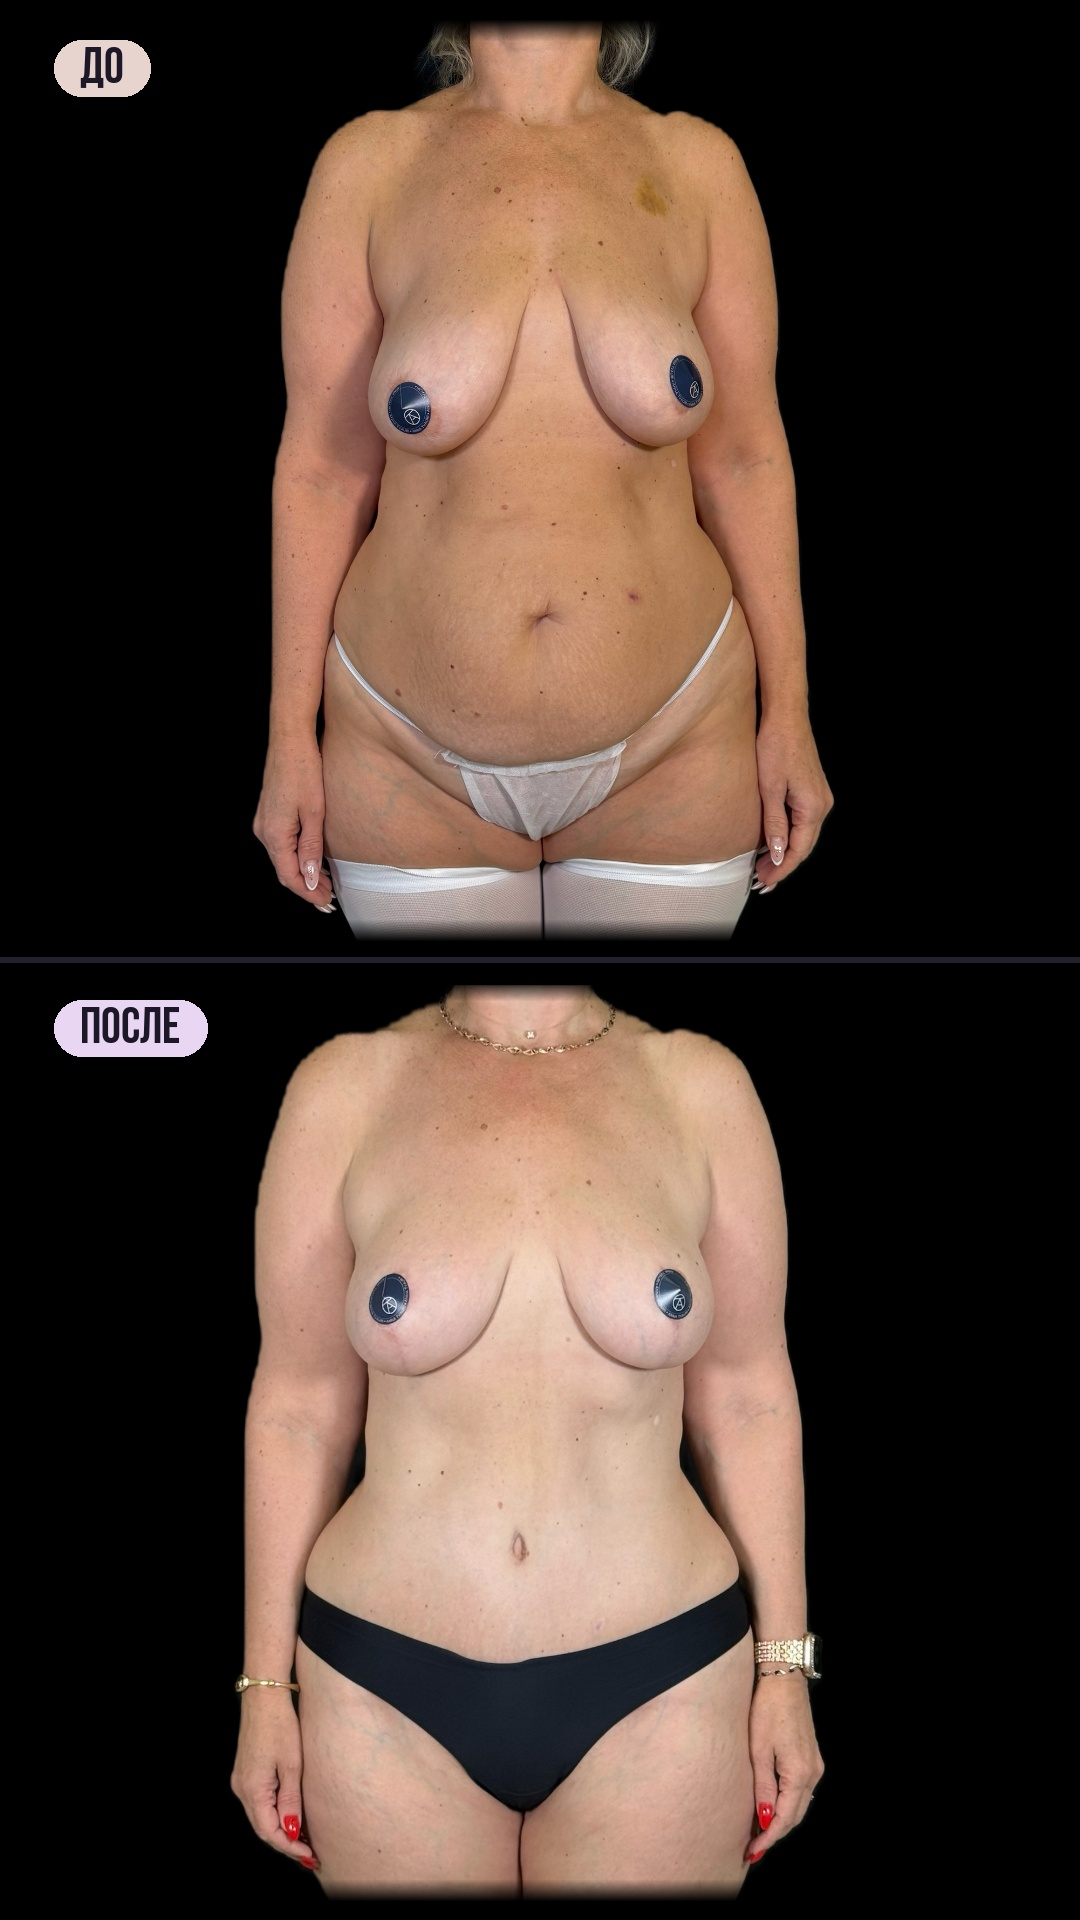
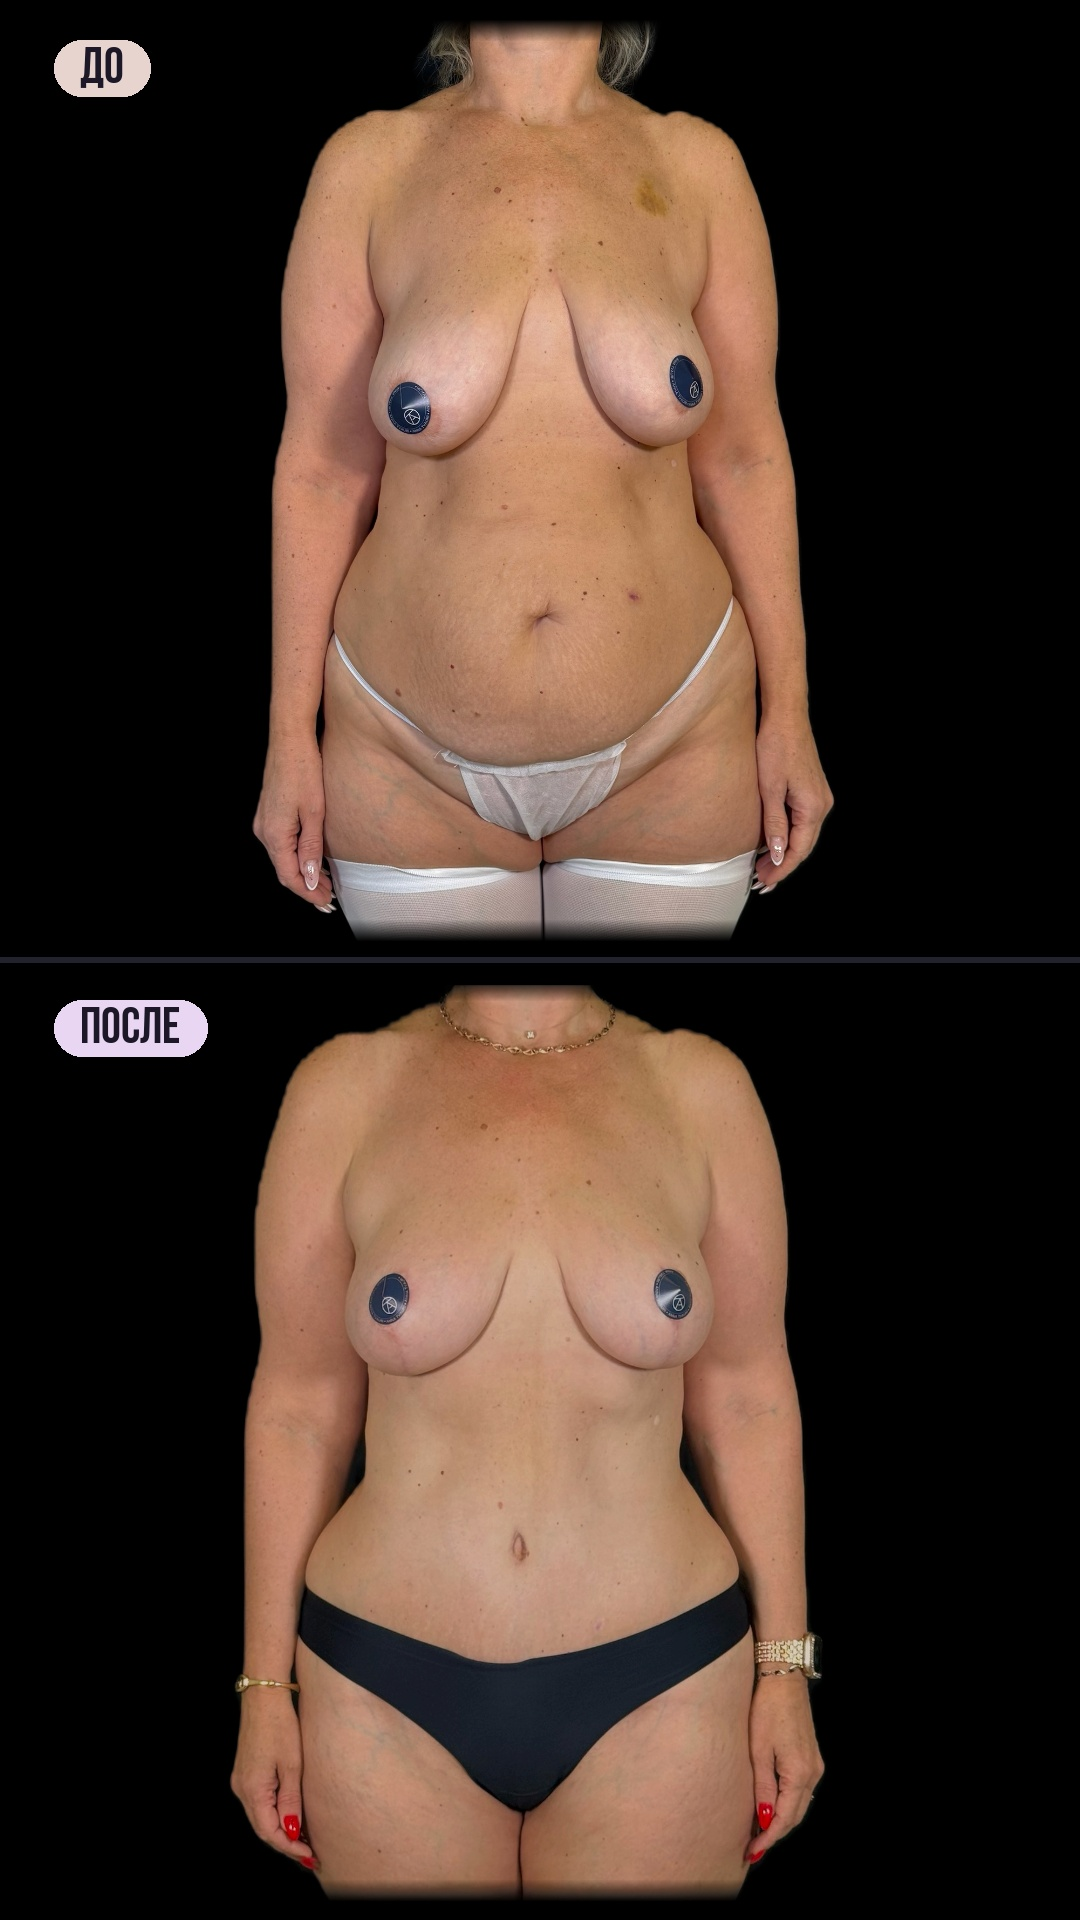
Body collages: ПОСЛЕ skin tone matched to ДО per angle
Claude-Session: https://claude.ai/code/session_01WwhZiMgoJM3MQocuuEgczm

Changed region(s): [[0.2139, 0.5, 0.7639, 1.0]]

diff --git a/tools/collage_body_do_po.py b/tools/collage_body_do_po.py
@@ -8,9 +8,20 @@ W, H, HALF = 1080, 1920, 960
 SPAN = {"do_f": (262, 1930, 740), "po_f": (8, 1480, 721),
         "do_q": (190, 2080, 721), "po_q": (222, 1850, 721),
         "do_s": (185, 2090, 721), "po_s": (262, 1800, 773)}
+from retouch import skin_mask
+def skin_stats(rgb):
+    m = skin_mask(rgb)[..., 0] > 0.5; return cv2.cvtColor(rgb, cv2.COLOR_RGB2LAB)[m].astype(np.float32).mean(0)
+def match_to(rgb, ref_rgb):
+    """ПОСЛЕ skin brought to the brightness and tone of ДО (same angle); dark underwear stays dark"""
+    mu, mr = skin_stats(rgb), skin_stats(ref_rgb)
+    lab = cv2.cvtColor(rgb, cv2.COLOR_RGB2LAB).astype(np.float32); out = lab.copy()
+    out[..., 0] *= mr[0] / mu[0]; out[..., 1:] += mr[1:] - mu[1:]
+    k = np.clip((lab[..., 0] - 50) / 40, 0, 1)[..., None]                                # skin, not the black briefs
+    return cv2.cvtColor(np.clip(lab * (1 - k) + out * k, 0, 255).astype(np.uint8), cv2.COLOR_LAB2RGB)
 BG = np.float32([0, 0, 0])                                         # pure black, like the example
 def half(name):
-    img = np.array(Image.open(f"dl/{name}.jpg").convert("RGB")).astype(np.float32)
+    img = np.array(Image.open(f"dl/{name}.jpg").convert("RGB"))
+    img = img.astype(np.float32)
     m = np.load(f"mask_{name}.npy").astype(np.float32)                                 # person mask (mediapipe selfie segmenter)
     m = cv2.GaussianBlur(np.clip((m - 0.3) / 0.4, 0, 1), (0, 0), 1.5)[..., None]
     img = img * m                                                                       # wall, floor and baseboard -> black
@@ -28,7 +39,9 @@ def pill(d, x, y, txt, col):                                                    
     d.text((x + w / 2, y + h / 2 + 2), txt, font=f, fill=(28, 24, 40), anchor="mm")
 LOGO = Image.open("logo_clean.png").convert("RGBA"); LOGO = LOGO.resize((300, int(LOGO.size[1] * 300 / LOGO.size[0])), Image.LANCZOS)
 for ang in ("f", "q", "s"):
-    fr = np.concatenate([half(f"do_{ang}"), half(f"po_{ang}")], 0)
+    top = np.clip(half(f"do_{ang}"), 0, 255).astype(np.uint8); bot = np.clip(half(f"po_{ang}"), 0, 255).astype(np.uint8)
+    for _ in range(2): bot = match_to(bot, top)                                          # match on exactly what is shown
+    fr = np.concatenate([top, bot], 0).astype(np.float32)
     fr[HALF - 3:HALF + 3] = (34, 34, 44)                                              # thin dark divider instead of the white line
     im = Image.fromarray(np.clip(fr, 0, 255).astype(np.uint8)); d = ImageDraw.Draw(im)
     pill(d, 54, 40, "ДО", (232, 212, 206)); pill(d, 54, HALF + 40, "ПОСЛЕ", (233, 214, 242))
